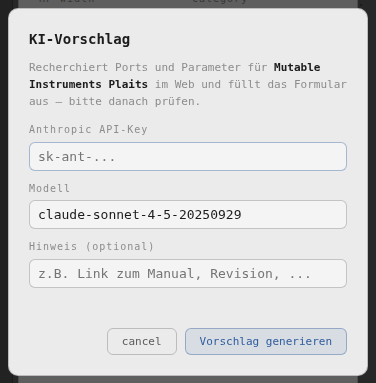
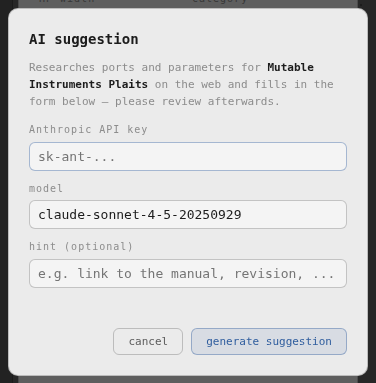
Translate AI module draft UI to English, drop the emoji
The feature's button, banner, modal and status strings were left in
German (mismatched with the rest of the English UI) and used a ✨
emoji the app doesn't use elsewhere. Translated all of it, removed the
emoji, and regenerated the README screenshot to match.

diff --git a/public/index.html b/public/index.html
@@ -369,11 +369,11 @@
       <h3 id="module-modal-title" style="margin-bottom:0">add module</h3>
       <div style="display:flex;gap:6px;flex-wrap:wrap;justify-content:flex-end">
         <button id="browse-module-repo-btn" class="io-add-btn" style="white-space:nowrap" onclick="Community.open()" title="browse the community module repo">browse module repo</button>
-        <button id="ai-module-btn" class="io-add-btn" style="white-space:nowrap" onclick="AIModule.open()" title="let an AI model research this module's ports and parameters">✨ AI-Vorschlag</button>
+        <button id="ai-module-btn" class="io-add-btn" style="white-space:nowrap" onclick="AIModule.open()" title="let an AI model research this module's ports and parameters">AI suggestion</button>
       </div>
     </div>
     <div id="ai-module-banner" class="ai-module-banner" style="display:none">
-      ✨ KI-Vorschlag — bitte Ports und Werte gegen das Manual prüfen, bevor du speicherst.
+      AI suggestion — please check ports and values against the manual before saving.
     </div>
     <div class="field">
       <label>manufacturer</label>
@@ -529,26 +529,26 @@
      optional research hint, then fills the add-module form behind it. -->
 <div id="ai-module-modal-bg" class="modal-bg" onmousedown="window._modalMousedownOnBg=(event.target===this)" onmouseup="if(window._modalMousedownOnBg&&event.target===this)AIModule.close()">
   <div class="modal" role="dialog" aria-label="AI module draft" style="width:360px">
-    <h3>KI-Vorschlag</h3>
+    <h3>AI suggestion</h3>
     <p style="font-size:11px;color:var(--text2);margin:-6px 0 12px">
-      Recherchiert Ports und Parameter für <strong id="ai-module-target" style="color:var(--text0)"></strong> im Web und füllt das Formular aus — bitte danach prüfen.
+      Researches ports and parameters for <strong id="ai-module-target" style="color:var(--text0)"></strong> on the web and fills in the form below — please review afterwards.
     </p>
     <div class="field">
-      <label>Anthropic API-Key</label>
+      <label>Anthropic API key</label>
       <input id="ai-key" type="password" placeholder="sk-ant-..." autocomplete="off">
     </div>
     <div class="field">
-      <label>Modell</label>
+      <label>model</label>
       <input id="ai-model" type="text" placeholder="claude-sonnet-4-5-20250929">
     </div>
     <div class="field">
-      <label>Hinweis (optional)</label>
-      <input id="ai-hint" type="text" placeholder="z.B. Link zum Manual, Revision, ..." autocomplete="off">
+      <label>hint (optional)</label>
+      <input id="ai-hint" type="text" placeholder="e.g. link to the manual, revision, ..." autocomplete="off">
     </div>
     <div id="ai-module-status" style="font-size:11px;min-height:14px;margin-top:2px"></div>
     <div class="modal-actions">
       <button class="btn-cancel" onclick="AIModule.close()">cancel</button>
-      <button id="ai-module-generate-btn" class="btn-primary" onclick="AIModule.generate()">Vorschlag generieren</button>
+      <button id="ai-module-generate-btn" class="btn-primary" onclick="AIModule.generate()">generate suggestion</button>
     </div>
   </div>
 </div>

diff --git a/public/js/aimodule.js b/public/js/aimodule.js
@@ -22,7 +22,7 @@ const AIModule = (() => {
     const maker = document.getElementById('m-maker').value.trim();
     const name  = document.getElementById('m-name').value.trim();
     if (!maker || !name) {
-      App.setStatus('Hersteller und Modulname zuerst eingeben, dann KI-Vorschlag anfragen');
+      App.setStatus('enter manufacturer and module name first, then request an AI suggestion');
       document.getElementById(maker ? 'm-name' : 'm-maker').focus();
       return;
     }
@@ -76,14 +76,14 @@ JSON shape (all fields required, arrays may be empty):
     const key   = document.getElementById('ai-key').value.trim();
     const model = document.getElementById('ai-model').value.trim() || DEFAULT_MODEL;
     const hint  = document.getElementById('ai-hint').value.trim();
-    if (!key) { _setStatus('Bitte API-Key eingeben.', 'err'); return; }
+    if (!key) { _setStatus('please enter an API key.', 'err'); return; }
 
     try { localStorage.setItem(KEY_STORAGE, key); } catch(e) {}
     try { localStorage.setItem(MODEL_STORAGE, model); } catch(e) {}
 
     const genBtn = document.getElementById('ai-module-generate-btn');
     genBtn.disabled = true;
-    _setStatus('recherchiere ' + maker + ' ' + name + ' …', '');
+    _setStatus('researching ' + maker + ' ' + name + ' …', '');
 
     let userMsg = 'Module: ' + maker + ' ' + name;
     if (hint) userMsg += '\nHint: ' + hint;
@@ -121,16 +121,16 @@ JSON shape (all fields required, arrays may be empty):
         .map(b => b.text)
         .join('\n')
         .trim();
-      if (!text) throw new Error('leere Antwort vom Modell');
+      if (!text) throw new Error('empty response from the model');
 
       const parsed = _extractJson(text);
       _applyDraft(parsed, maker, name);
 
       close();
       document.getElementById('ai-module-banner').style.display = 'block';
-      App.setStatus('KI-Vorschlag eingefügt — bitte prüfen vor dem Speichern');
+      App.setStatus('AI suggestion filled in — please review before saving');
     } catch(err) {
-      _setStatus('Fehler: ' + err.message, 'err');
+      _setStatus('error: ' + err.message, 'err');
     } finally {
       genBtn.disabled = false;
     }
@@ -139,7 +139,7 @@ JSON shape (all fields required, arrays may be empty):
   function _extractJson(text) {
     const start = text.indexOf('{');
     const end = text.lastIndexOf('}');
-    if (start === -1 || end === -1 || end < start) throw new Error('keine JSON-Antwort erkannt');
+    if (start === -1 || end === -1 || end < start) throw new Error('no JSON response detected');
     return JSON.parse(text.slice(start, end + 1));
   }
 

diff --git a/README.md b/README.md
@@ -84,7 +84,7 @@ The shared library lives in its own repo, [patchdoc-modules](https://github.com/
 
 ## AI module draft
 
-Don't want to type out every jack and knob by hand? Fill in manufacturer + name in the add-module form, then hit **✨ AI-Vorschlag** next to **browse module repo**. With your own [Anthropic API key](https://console.anthropic.com/settings/keys) (entered once, stored only in that browser — never sent anywhere but `api.anthropic.com`, never synced), a Claude model searches the web for the module's real manual and pre-fills inputs, outputs and parameters from it.
+Don't want to type out every jack and knob by hand? Fill in manufacturer + name in the add-module form, then hit **AI suggestion** next to **browse module repo**. With your own [Anthropic API key](https://console.anthropic.com/settings/keys) (entered once, stored only in that browser — never sent anywhere but `api.anthropic.com`, never synced), a Claude model searches the web for the module's real manual and pre-fills inputs, outputs and parameters from it.
 
 ![AI module draft](docs/screenshot_ai-module.png)
 
